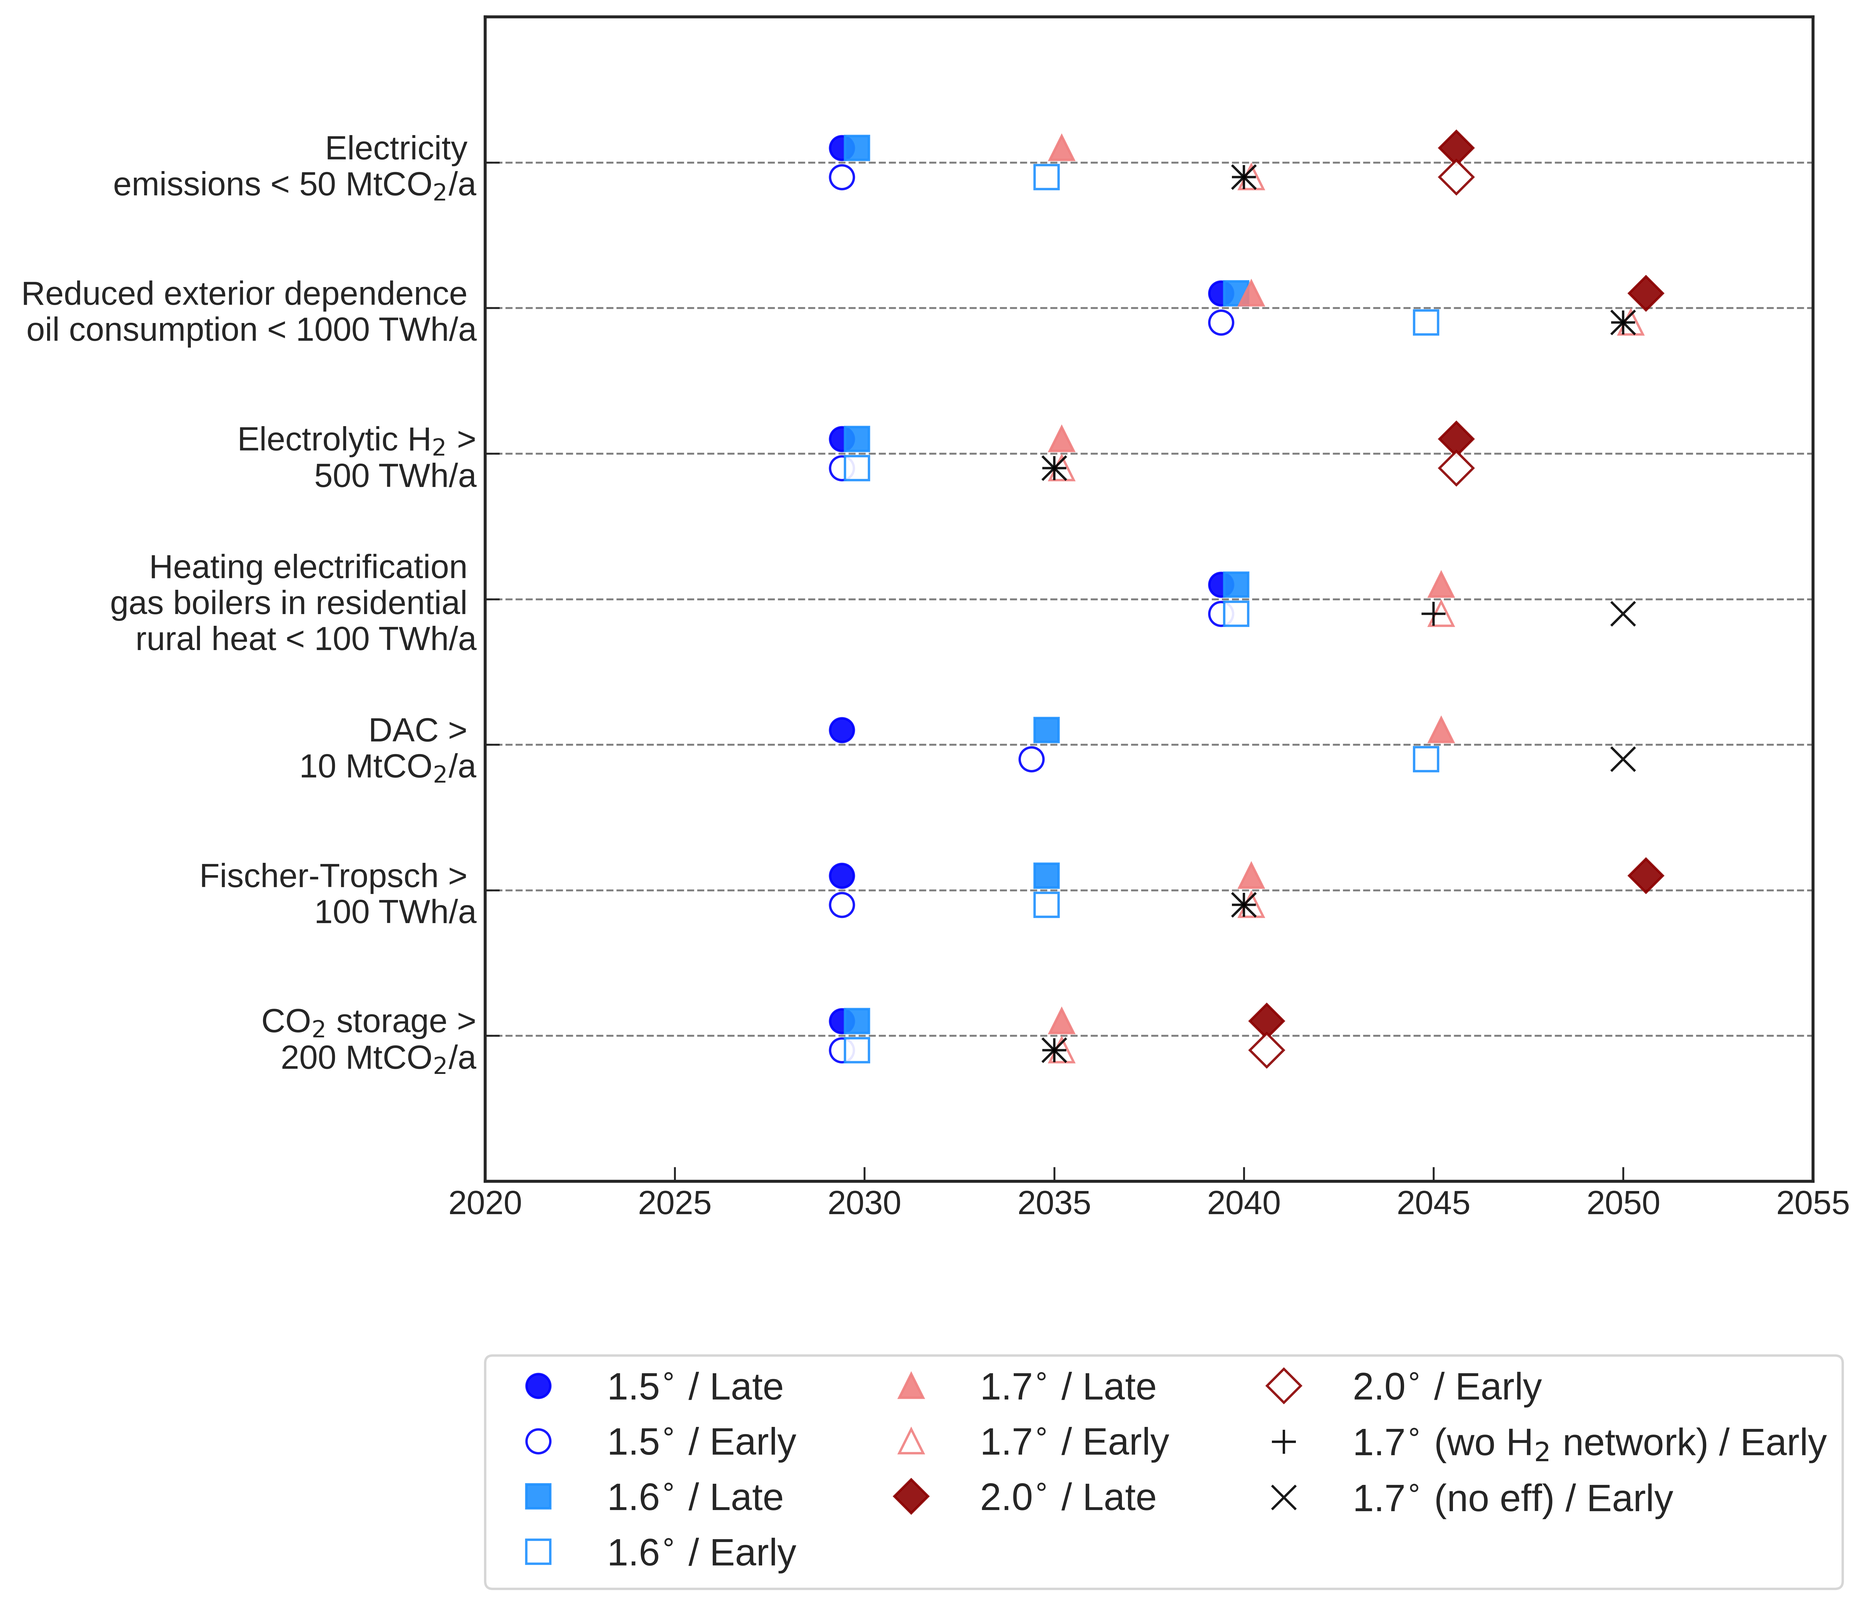
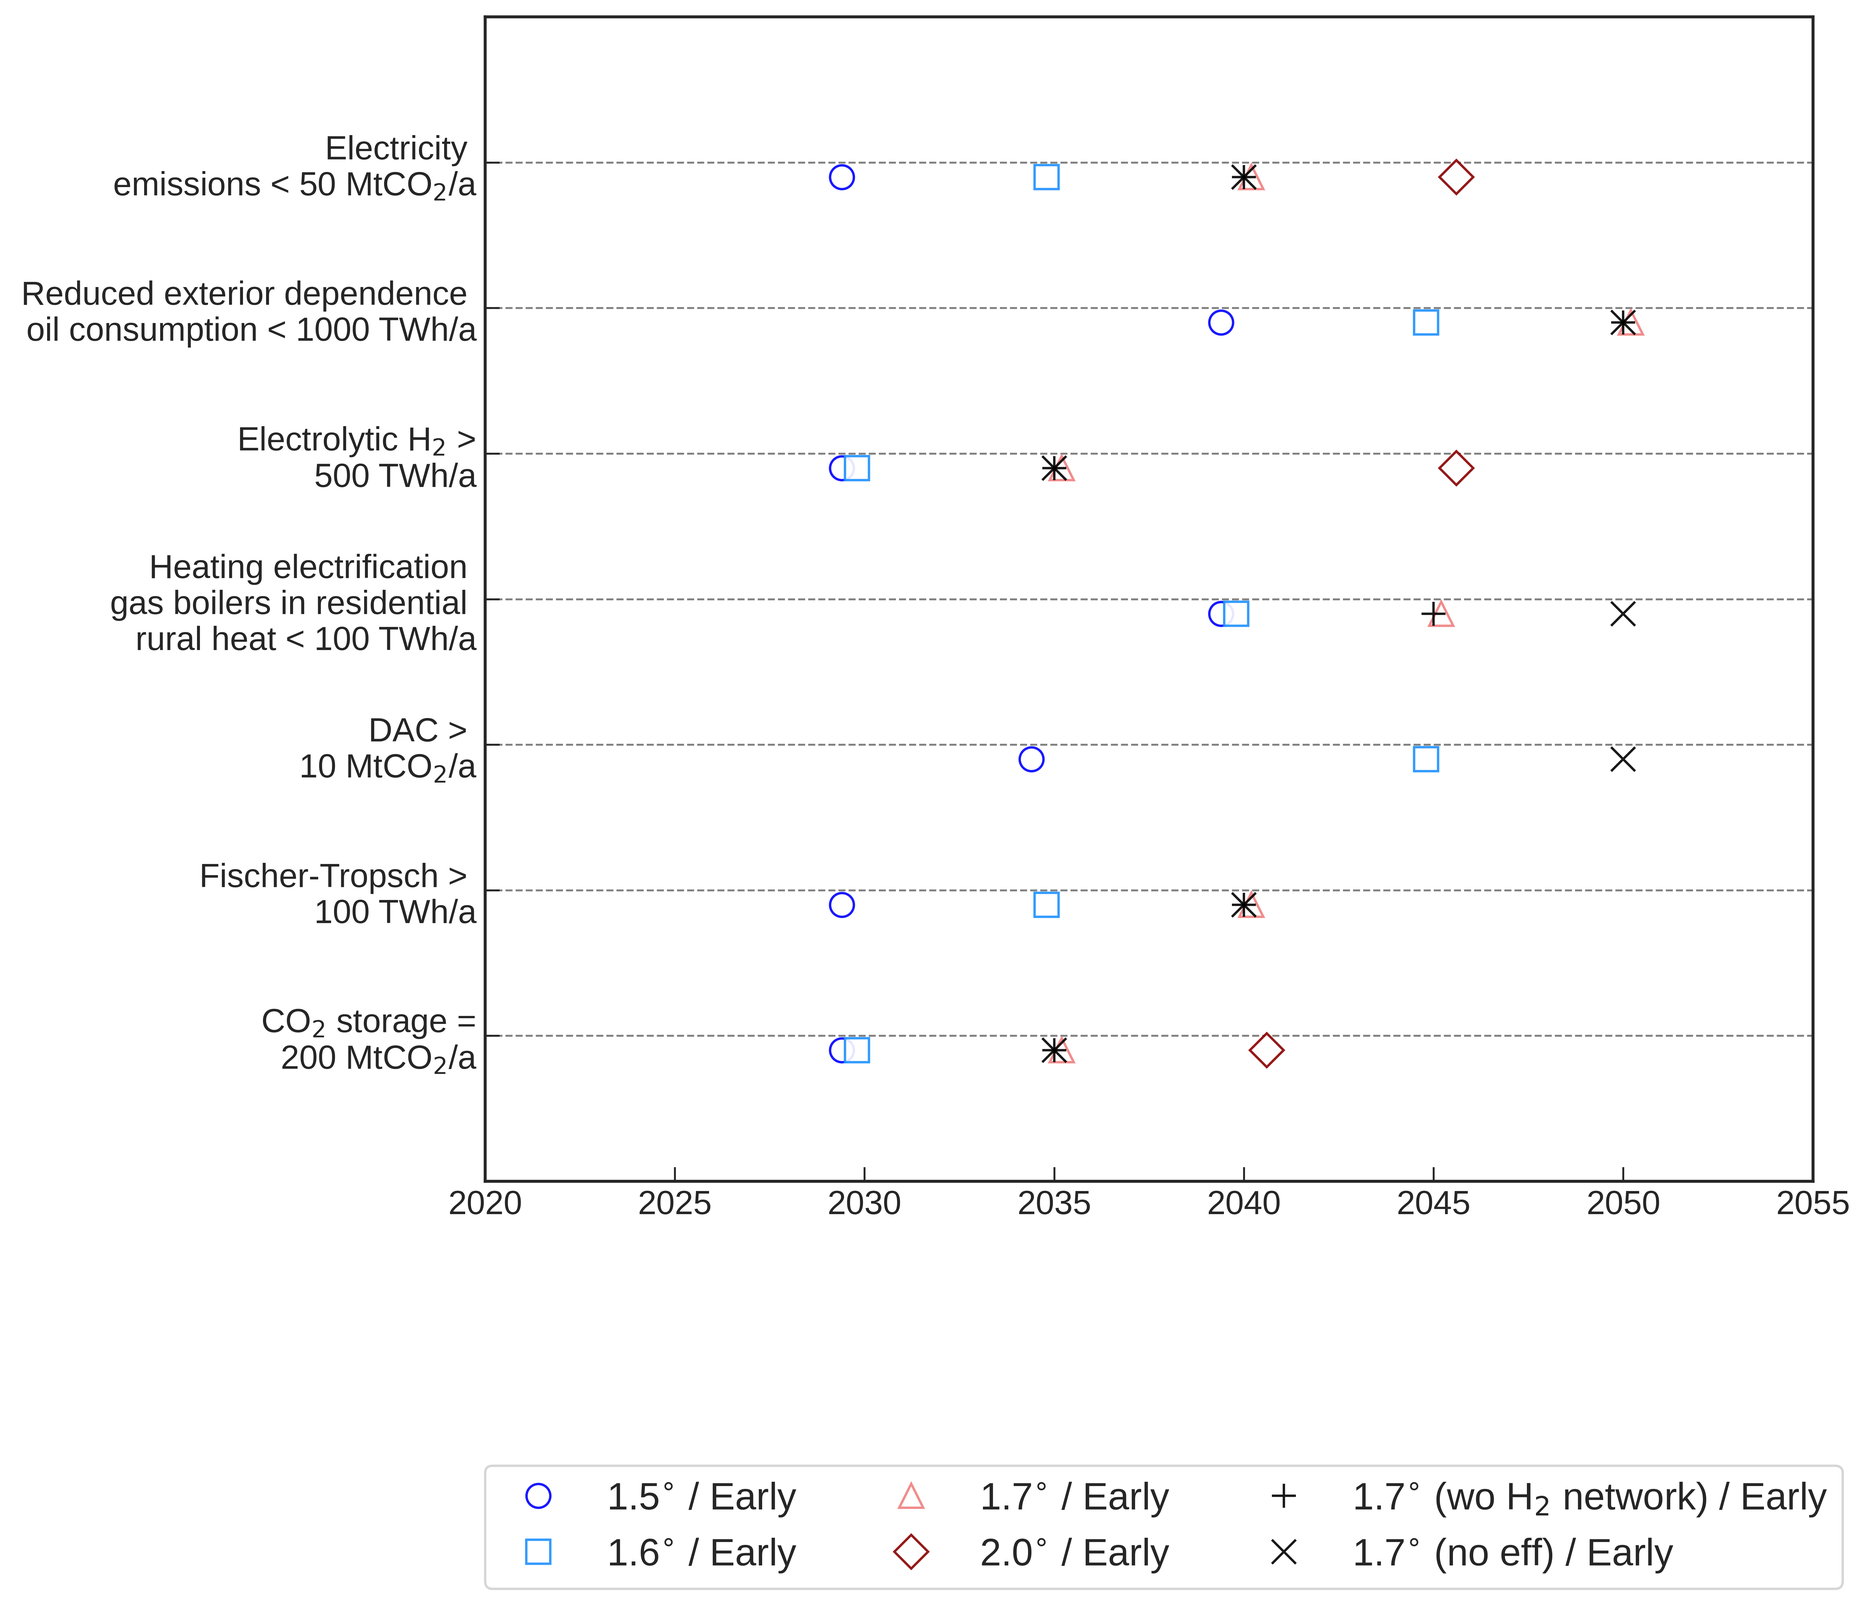
working on text

diff --git a/plot_CO2_price.py b/plot_CO2_price.py
@@ -1,0 +1,79 @@
+# -*- coding: utf-8 -*-
+"""
+Created on Mon Oct 29 15:48:59 2018
+
+@author: Marta
+"""
+
+import pandas as pd
+import matplotlib.pyplot as plt
+import matplotlib.gridspec as gridspec
+import numpy as np
+from datetime import datetime
+from datetime import timedelta
+import matplotlib.pylab as pl
+import seaborn as sns; sns.set()
+idx = pd.IndexSlice
+
+plt.style.use('seaborn-ticks')
+plt.rcParams['axes.labelsize'] = 14
+plt.rcParams['legend.fontsize'] = 14
+plt.rcParams['xtick.labelsize'] = 14
+plt.rcParams['ytick.labelsize'] = 14
+plt.rcParams['xtick.direction'] = 'in'
+plt.rcParams['ytick.direction'] = 'in'
+plt.rcParams['axes.titlesize'] = 14
+
+#def plot_co2_prices():
+
+# data downloaded from https://sandbag.org.uk/carbon-price-viewer/
+data=pd.read_csv('data/eua-price.csv', sep=',')
+plt.figure(figsize=(10, 6))
+gs1 = gridspec.GridSpec(1, 1)
+ax1 = plt.subplot(gs1[0,0])
+date= [datetime.strptime(hour, '%Y-%m-%d %H:%M:%S').date() for hour in data['Date']]
+ax1.plot(date, data['Price'] , linewidth=2, color='black', label='ETS market')
+col = ['yellowgreen', 'dodgerblue', 'gold','orange', 'darkred']
+budgets = ['25'] #, '34', '48', '70']
+decay = 'ex0'
+
+for budget in budgets:
+    metrics_df = pd.read_csv('results/version-cb{}{}/csvs/metrics.csv'.format(budget,decay))
+    metrics_df = metrics_df.set_index(['cluster', 'lv', 'opt', 'planning_horizon']).sort_index()
+    #opt ='3H-T-H-B-I-solar3-dist1-cb{}{}'.format(budget,decay)
+    #CO2_price= metrics_df.loc[idx[cluster,transmission,opt, 'cumulative cost'],str(discount_rate)]
+plt.savefig('figures/co2_price.png', dpi=300, bbox_inches='tight')
+#%%
+    idx = pd.IndexSlice
+    metrics=pd.read_csv('results/version-Base/csvs/metrics.csv', sep=',', 
+                    index_col=0, header=[0,1,2])
+    
+    date2 = [datetime(2020,1,1,0,0,0) + timedelta(hours=8760*i*5) for i in range(0,7)]
+    ax1.plot(date2, metrics.loc['co2_price',idx['go', 'TYNDP',:]], linewidth=2, color= 'dodgerblue', 
+             marker='o', markerfacecolor='white', markeredgecolor='dodgerblue', label='Early and Steady path')
+    ax1.plot(date2, metrics.loc['co2_price',idx['wait', 'TYNDP',:]], linewidth=2, 
+             color= 'firebrick', marker='o',  markerfacecolor='white', 
+             markeredgecolor='firebrick',label='Late and Rapid path')
+    ax1.set_ylabel('CO$_2$ price (€/ton)', fontsize=16)
+    ax1.grid(linestyle='--')
+    ax1.set_ylim([0, 500])  
+    ax1.set_xlim([datetime(2008,1,1,0,0,0), datetime(2051,1,1,0,0,0)]) 
+    ax1.plot([datetime(2005,1,1,0,0,0), datetime(2050,1,1,0,0,0)],
+              [275, 275], color='gold', linewidth = 195, alpha =0.15)
+    ax1.annotate('Co-benefits for human \n health and agriculture',
+                 xy=(datetime(2017,1,1,0,0,0),310),color='black', fontsize=16) 
+    ax1.annotate('', xy=(datetime(2030,1,1,0,0,0), 125), 
+                  xytext=(datetime(2030,1,1,0,0,0), 425),
+                  color='gold', fontsize=16, 
+                  arrowprops = dict(arrowstyle = "->", alpha=1,
+                                color='gold', linewidth=2),)
+    ax1.annotate('', xy=(datetime(2030,1,1,0,0,0), 425), 
+                  xytext=(datetime(2030,1,1,0,0,0), 125),
+                  color='gold', fontsize=16, 
+                  arrowprops = dict(arrowstyle = "->", alpha=1,
+                                color='gold', linewidth=2),)
+    
+    ax1.legend(fancybox=False, fontsize=16, loc=(0.012,0.2), facecolor='white', frameon=True)
+    
+
+plot_co2_prices()

diff --git a/plot_carbon_budget_vs_temp.py b/plot_carbon_budget_vs_temp.py
@@ -23,27 +23,51 @@ plt.rcParams['axes.titlesize'] = 14
 plt.figure(figsize=(7, 5))
 gs1 = gridspec.GridSpec(1, 1)
 ax1 = plt.subplot(gs1[0,0])
+share_Europe=0.06453
+share_fair=0.055
+share_unfair=0.11
+cb={}
+cb[67]=[420, 570, 800, 980, 1170]
+cb[50]=[580, 770, 1040, 1260, 1500]
+cb[33]=[840, 1080, 1440, 1720, 2300]
 
-cb=[420, 580, 800, 1170]
-E_cb=[25, 34, 48, 70]
-T= [1.5, 1.6, 1.7, 2]
-col = ['blue', 'dodgerblue', 'lightcoral', 'darkred']
-m= ['o', 's', '^', 'D']
-s=150*np.ones(4)
-for _m, _col, _cb, _T,_s in zip(m, col, E_cb, T, s):
-    ax1.scatter(_cb, _T, marker=_m, c=_col, s=_s)
+T= [1.5, 1.6, 1.75, 1.87,  2]
+col = ['yellowgreen', 'dodgerblue', 'gold','orange', 'darkred']
+m= ['o', '^', 's', 'D', 'p']
+s=[150, 150, 150, 150, 250]
+for _m, _col,_cb67, _cb50, _cb33, _T,_s in zip(m, col, cb[67], cb[50], cb[33], T, s):
+    ax1.scatter(_cb67*share_Europe, _T, marker=_m, c=_col, s=_s)
+    ax1.scatter(_cb50*share_Europe, _T, marker=_m, c=_col, s=_s, alpha=0.5)
+    ax1.scatter(_cb33*share_Europe, _T, marker=_m, c=_col, s=_s, alpha=0.3)
+    #ax1.errorbar(_cb,_T, xerror=10)
     
 ax1.set_ylabel('Temperature Increase ($^{\circ}$C)', fontsize=14)    
 ax1.set_xlabel('EU carbon budget (GtCO$_2$)', fontsize=14) 
-ax1.grid(color='grey', linestyle='--') #, axis='y')
-ax1.set_xlim(22, 80)
-ax1.set_ylim(1.2, 2.2)
+#ax1.grid(color='grey', linestyle='--') #, axis='y')
+ax1.set_xlim(22, 120)
+ax1.set_ylim(1.3, 2.1)
 
-ax1.plot([41, 74.6], [1.7, 1.7], linewidth=3, color=col[2])
-ax1.text(45, 1.72, 'per capita', fontsize=14, color='black')
-ax1.text(40, 1.72, 'fair', fontsize=14, color='black')
-ax1.text(74, 1.72, 'unfair', fontsize=14, color='black')
 
+ax1.plot(cb[67][2]*share_fair, T[2], marker=m[2], 
+            markerfacecolor=col[2], markeredgecolor='black', markersize=12, )
+
+ax1.plot(cb[67][2]*share_unfair, T[2], marker=m[2], 
+            markerfacecolor=col[2], markeredgecolor='black', markersize=12, )
+#ax1.text(cb[67][2]*share_Europe-3, 1.64, ' 50% \n per capita', fontsize=14, color=col[2])
+#ax1.text(cb[67][2]*share_fair-3, 1.64, ' 50% \n fair', fontsize=14, color=col[2])
+#ax1.text(cb[67][2]*share_unfair-3, 1.64, ' 50% \n unfair', fontsize=14, color=col[2])
+ax1.annotate('50% unfair',xy=(cb[67][2]*share_unfair, 1.75),
+             xytext=(cb[67][2]*share_unfair, 1.75-0.12),
+             fontsize=14, color='black', zorder=-1,
+             arrowprops=dict(facecolor='black', lw=0.5, arrowstyle='-'))
+ax1.annotate('50%  fair',xy=(cb[67][2]*share_fair, 1.75),
+             xytext=(cb[67][2]*share_fair-15, 1.75+0.1),
+             fontsize=14, color='black', zorder=-1,
+             arrowprops=dict(facecolor='black', lw=0.5, arrowstyle='-'))
+
+ax1.text(cb[67][0]*share_Europe-3, 1.43, '67%', fontsize=14, color=col[0])
+ax1.text(cb[50][0]*share_Europe-3, 1.43, '50%', fontsize=14, color=col[0])
+ax1.text(cb[33][0]*share_Europe-3, 1.43, '33%', fontsize=14, color=col[0])
 plt.savefig('figures/carbon_budget_vs_temperature.png', dpi=300, bbox_inches='tight') 
 
 

diff --git a/plot_NET.py b/plot_NET.py
@@ -30,18 +30,20 @@ gs1.update(wspace=0.05, hspace=0.05)
 
 transmission='1.0'
 cluster='37'
-budgets = ['25', '34', '48', '70', '48-noH2network','48-wo_eff']
+budgets = ['25', '34', '48', '70', '48-noH2network','48-noBECC','48-wo_eff', ]
 budget_name = {'25':'1.5$^{\circ}$', 
                '34':'1.6$^{\circ}$',  
                '48':'1.7$^{\circ}$',  
                '70':'2.0$^{\circ}$',  
                '48-noH2network': '1.7$^{\circ}$ \n (no H$_2$ network)' ,
-               '48-wo_eff':'1.7$^{\circ}$ \n (no efficiency)'}
+               '48-wo_eff':'1.7$^{\circ}$ \n (no efficiency)',
+               '48-noBECC':'1.7$^{\circ}$ \n (no BECC)'}
 decays = {'25':['be3', 'ex0'], 
         '34':['be3', 'ex0'],
         '48':['be3', 'ex0'], 
         '48-noH2network':['ex0'], 
         '48-wo_eff':['ex0'], 
+        '48-noBECC':['ex0'], 
         '70':['be3', 'ex0']}
 NET=['DAC1', 'SMR CC3', 'gas for industry CC3',
      'process emissions CC2', 'solid biomass for industry CC3',
@@ -53,25 +55,33 @@ colors=[color['DAC'], color['SMR'], 'gray',#color['gas for industry'],
         color['process emissions'], 'lightgreen',#color['solid biomass for industry'],
         color['gas'], 'darkgreen'#color['biogas']
         ]
+
 for i,budget in enumerate(budgets):  
     for j,decay in enumerate(decays[budget]):
         ax1 = plt.subplot(gs1[i,j])
         balances_df = pd.read_csv('results/version-cb{}{}/csvs/supply_energy.csv'.format(budget,decay),index_col=list(range(3)),
                                   header=list(range(4)))
         if budget =='48-noH2network':
+            NET2=NET
             opt ='3H-T-H-B-I-solar3-dist1-noH2network-cb48ex0'
         elif budget== '48-wo_eff':
+            NET2=NET
             opt ='3H-T-H-B-I-solar3-dist1-cb48ex0'
+        elif budget== '48-noBECC':
+            opt ='3H-T-H-B-I-solar3-dist1-cb48ex0'
+            NET2=['DAC1', 'SMR CC3', 'gas for industry CC3',
+                'process emissions CC2', 'urban central gas CHP CC4']
         else:
+            NET2=NET
             opt='3H-T-H-B-I-solar3-dist1-cb{}{}'.format(budget,decay)
         sel = -0.000001*balances_df.loc[idx['co2 stored', 'links', :],idx[cluster, transmission, opt,:]].droplevel([0,1]) #CO2 -> Mt CO2
-        ax1.stackplot([int(x) for x in sel.columns.get_level_values(3)], sel.loc[NET], colors=colors)
+        ax1.stackplot([int(x) for x in sel.columns.get_level_values(3)], sel.loc[NET2], colors=colors)
         if j==0:
             ax1.set_ylabel("MtCO$_2$/a")
             ax1.text(2005, -300, budget_name[budget], fontsize=14)
         if j==1:
             ax1.set_yticklabels([])
-        if i!=5:
+        if i!=6:
             ax1.set_xticklabels([])
         ax1.set_ylim([-650, 0])
         ax1.set_xlim([2020, 2050])

diff --git a/plot_exogenous_assumptions.py b/plot_exogenous_assumptions.py
@@ -1,0 +1,66 @@
+#!/usr/bin/env python3
+# -*- coding: utf-8 -*-
+"""
+Created on Mon Apr 26 14:35:18 2021
+
+@author: marta
+"""
+
+import pandas as pd
+import numpy as np
+import matplotlib.pyplot as plt
+import matplotlib.gridspec as gridspec
+
+plt.style.use('seaborn-ticks')
+plt.rcParams['axes.labelsize'] = 14
+plt.rcParams['legend.fontsize'] = 14
+plt.rcParams['xtick.labelsize'] = 14
+plt.rcParams['ytick.labelsize'] = 14
+plt.rcParams['xtick.direction'] = 'in'
+plt.rcParams['ytick.direction'] = 'in'
+plt.rcParams['axes.titlesize'] = 14
+
+def plot_exogenous_parameter(exogenous_parameter, data, y_title, 
+                             exogeous_parameter2=None, data2=None):
+    plt.figure(figsize=(7, 5))
+    gs1 = gridspec.GridSpec(1, 1)
+    ax1 = plt.subplot(gs1[0,0])
+    ax1.plot(pd.Series(data), linewidth=3,label=exogenous_parameter)
+    if data2!=None:
+        ax1.plot(pd.Series(data2), linewidth=3, label=exogeous_parameter2)
+        ax1.legend(loc='best')
+    ax1.grid()
+    ax1.set_xlim([2020,2050])
+    ax1.set_ylabel(y_title)
+    plt.savefig('figures/{}.png'.format(exogenous_parameter), dpi=300, bbox_inches='tight') 
+
+
+from vresutils import Dict
+import yaml
+snakemake = Dict()
+with open('config.yaml') as f:
+     snakemake.config = yaml.safe_load(f)
+
+plot_exogenous_parameter('reduction_space_heat_demand',
+                         snakemake.config['sector']['retrofitting']['dE'],
+                         'Reduction of space heat demand (relative to 2020)')
+
+plot_exogenous_parameter('land_transport_electric_share',
+                         snakemake.config['sector']['land_transport_electric_share'],
+                         'Share converted transport',
+                         'land_transport_fuel_cell_share',
+                         snakemake.config['sector']['land_transport_fuel_cell_share'],)
+
+plot_exogenous_parameter('DRI_fraction',
+                         snakemake.config['industry']['DRI_fraction'],
+                         'Fraction of steel produced via DRI/secondary route',
+                         'scrap_steel_fraction',
+                         snakemake.config['industry']['scrap_steel_fraction'])
+
+plot_exogenous_parameter('Al_primary_fraction' ,
+                         snakemake.config['industry']['Al_primary_fraction'],
+                         'Fraction of Aluminum produced by primary route')
+
+plot_exogenous_parameter('shipping_fuel_cell_share',
+                         snakemake.config['sector']['shipping_fuel_cell_share'],
+                         'Share converted shipping')

diff --git a/plot_budget.py b/plot_budget.py
@@ -92,21 +92,18 @@ def plot_carbon_budget_distribution():
     countries=pd.read_csv('results/countries.csv',  index_col=1) 
     cts=countries.index.to_list()
     e_1990 = co2_emissions_year(cts, opts, year=1990)
-    budgets = ['cb25be3', 'cb25be3','cb25ex0','cb34be3','cb34ex0','cb48be3',
-               'cb48ex0','cb70be3','cb70ex0']
-    col={'cb25be3':'blue',
-         'cb25ex0':'blue',
-         'cb34be3':'dodgerblue',
+    budgets = ['cb25ex0','cb34ex0','cb48ex0','cb70ex0']
+
+    col={'cb25ex0':'yellowgreen',
          'cb34ex0':'dodgerblue',
-         'cb48be3':'lightcoral',
-         'cb48ex0':'lightcoral',
-         'cb70be3':'darkred',
+         'cb48ex0':'gold',
+         #'orange', 
          'cb70ex0':'darkred'}
     for budget in budgets:
         path_cb =  'results/version-{}/csvs/'.format(budget)
         CO2_CAP=pd.read_csv(path_cb + 'carbon_budget_distribution.csv',  
                         index_col=0) 
-        ls='--' if 'ex' in budget else '-'
+        ls='-' if 'ex' in budget else '--'
         ax1.plot(e_1990*CO2_CAP[budget],linewidth=3, 
                  color=col[budget], linestyle=ls, label=None)
             
@@ -142,8 +139,9 @@ def plot_carbon_budget_distribution():
                      marker='*', markersize=12, markerfacecolor='black',
                      markeredgecolor='black', label='EU commited target')
             
-    ax1.legend(fancybox=True, fontsize=18, loc=(0.01,0.01), 
-                       facecolor='white', frameon=True) 
+    ax1.legend(['1.50$^{\circ}$C,', '1.60$^{\circ}$C', '1.75$^{\circ}$C', '2$^{\circ}C$'], 
+               fancybox=True, fontsize=18, loc=(0.01,0.01), 
+               facecolor='white', frameon=True) 
             
     path_cb_plot = 'figures/'             
     plt.savefig(path_cb_plot+'carbon_budgets.png', dpi=300) 

diff --git a/plot_cumulative_system_cost.py b/plot_cumulative_system_cost.py
@@ -28,7 +28,7 @@ gcb = [420, 580, 800, 1170]
 T = [1.5, 1.6, 1.7, 2.0]
 discount_rates = [0.0, 0.02, 0.04, 0.06, 0.08]
 budgets = ['25', '34', '48', '70']
-decays = ['be3', 'ex0']
+decays = ['ex0'] #'be3'
 
 color_dr ={0: 'sienna',
           0.02: 'darkgoldenrod',
@@ -41,9 +41,10 @@ marker_cb ={'25':'o',
            '48':'^', 
            '70':'D',
            'noH2network':'+',
-           'wo_eff':'x'}
-style_decay={'be3':'-', 
-             'ex0':'--'}
+           'wo_eff':'x',
+           'noBECC':'1'}
+style_decay={'be3':'--', 
+             'ex0':'-'}
 
 cb2gcb=pd.Series(gcb,index=budgets).to_dict()
 
@@ -70,7 +71,7 @@ for discount_rate in discount_rates:
                  linestyle=style_decay[decay],
                  label=discount_rate) 
 
-for scenario in ['noH2network','wo_eff']:
+for scenario in ['noH2network','wo_eff','noBECC']:
     discount_rate=0.02
     budget='48'
     cumulative_cost_df = pd.read_csv('results/version-cb{}-{}{}/csvs/cumulative_cost.csv'.format(budget,scenario,decay))
@@ -83,6 +84,7 @@ for scenario in ['noH2network','wo_eff']:
              linewidth=0,
              marker=marker_cb[scenario],
              markeredgecolor='black', #color_dr[discount_rate],
+             markerfacecolor=None,
              label=scenario) 
 
 ax1.set_ylabel('Cumulative System Costs (B€)')   
@@ -95,7 +97,7 @@ ax2.set_xlim(300, 1300)
 ax2.set_xlabel('Global carbon budget (GtCO$_2$)') 
 ax1.set_xticks([420, 580, 800, 1170])
 ax1.set_xticklabels(T)
-
+#ax1.set_ylim([15000, 17000])
 ax1.legend(fancybox=True, fontsize=16, loc=(-0.1, -0.25), facecolor='white', 
            frameon=True, ncol=6)       
 plt.savefig('figures/cumulative_system_cost_transmission{}.png'.format(transmission), dpi=600, bbox_inches='tight')

diff --git a/plot_KPI_vs_time.py b/plot_KPI_vs_time.py
@@ -27,13 +27,19 @@ ax1 = plt.subplot(gs1[0,0])
 gcb = [420, 580, 800, 1170]
 
 budgets = ['25', '34', '48', '70', '48-noH2network','48-wo_eff']
-decays = {'25':['be3', 'ex0'], 
-        '34':['be3', 'ex0'],
-        '48':['be3', 'ex0'], 
+decays = {'25':['ex0'], 
+        '34':['ex0'],
+        '48':['ex0'], 
         '48-noH2network':['ex0'], 
         '48-wo_eff':['ex0'], 
-        '70':['be3', 'ex0']}
- 
+        '70':['ex0']}
+
+#decays = {'25':['be3', 'ex0'], 
+#        '34':['be3', 'ex0'],
+#        '48':['be3', 'ex0'], 
+#        '48-noH2network':['ex0'], 
+#        '48-wo_eff':['ex0'], 
+#        '70':['be3', 'ex0']} 
 decay_name={'be3':'Late',
             'ex0':'Early'}
 marker_cb ={'25':'o', 
